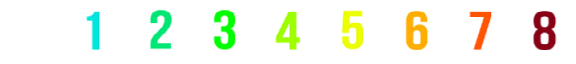
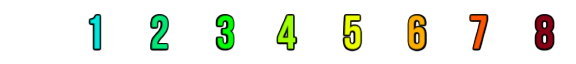
Fixes & Updates
- Melhorado destaque da fonte numérica, com borda preta.
- Fixado bug que não exibia todos os números onde haviam bombas ao
redor, ao perder o jogo sem revelar tudo.
- Alterado a listagem de total de bombas, para exibir como valor mínimo,
a altura/largura do campo (o que for menor)

diff --git a/src/entity/Game.java b/src/entity/Game.java
@@ -50,13 +50,7 @@ public class Game {
 		gc.setImageSmoothing(false);
 		VBox vBox = new VBox(canvas);
 		Scene scene = new Scene(vBox);
-		scene.setOnMouseClicked(e -> {
-			if (gameOver) {
-				reset();
-				return;
-			}
-			clickedAt((int) e.getX() / tileSize, (int) e.getY() / tileSize, e.getButton() == MouseButton.PRIMARY ? 1 : 2);
-		});
+		scene.setOnMouseClicked(e -> clickedAt((int) e.getX() / tileSize, (int) e.getY() / tileSize, e.getButton() == MouseButton.PRIMARY ? 1 : e.getButton() == MouseButton.SECONDARY ? 2 : 3));
 		stage.setScene(scene);
 		stage.setOnCloseRequest(e -> close = true);
 		stage.setResizable(false);
@@ -118,6 +112,11 @@ public class Game {
 	}
 
 	private static void clickedAt(int x, int y, int button) {
+		if (gameOver) {
+			reset();
+			return;
+		}
+		
 		Tile tile = null;
 		for (Tile t : tiles)
 			if (t.getX() == x && t.getY() == y) {
@@ -224,7 +223,7 @@ public class Game {
 							gc.drawImage(sprites, win ? 48 : 32, 0, 16, 16, x * tileSize, y * tileSize, tileSize, tileSize);
 					}
 				}
-				if (state == TileState.REVEALED && !tile.isBomb() && tile.haveBombsAround())
+				if (!tile.isBomb() && (gameOver || (state == TileState.REVEALED && tile.haveBombsAround())))
 					gc.drawImage(numbers, tile.getBombsAround() * 64, 0, 64, 64, x * tileSize, y * tileSize, tileSize, tileSize);
 			}
 		}).start();

diff --git a/src/gui/ConfigsController.java b/src/gui/ConfigsController.java
@@ -32,14 +32,14 @@ public class ConfigsController {
   		tileSize = Integer.parseInt(newV.replace(" px", ""));
   		refreshCombos();
  		});
-  	comboBoxTileSize.getSelectionModel().select(1);
+  	comboBoxTileSize.getSelectionModel().select(3);
   	comboBoxFieldSize.valueProperty().addListener((o, oldV, newV) -> {
   		if (newV != null) {
 	  		String[] split = newV.split(" x ");
 	  		fieldWidth = Integer.parseInt(split[0]);
 	  		fieldHeight = Integer.parseInt(split[1]);
 	  		comboBoxTotalBombs.getItems().clear();
-	    	for (int n = 1; n < fieldWidth * fieldHeight; n += (n == 1 ? 4 : 5))
+	    	for (int n = fieldWidth < fieldHeight ? fieldWidth : fieldHeight; n < fieldWidth * fieldHeight; n += (n == 1 ? 4 : 5))
 	    		comboBoxTotalBombs.getItems().add(n);
 	    	comboBoxTotalBombs.getSelectionModel().select(comboBoxTotalBombs.getItems().size() / 10);
   		}
